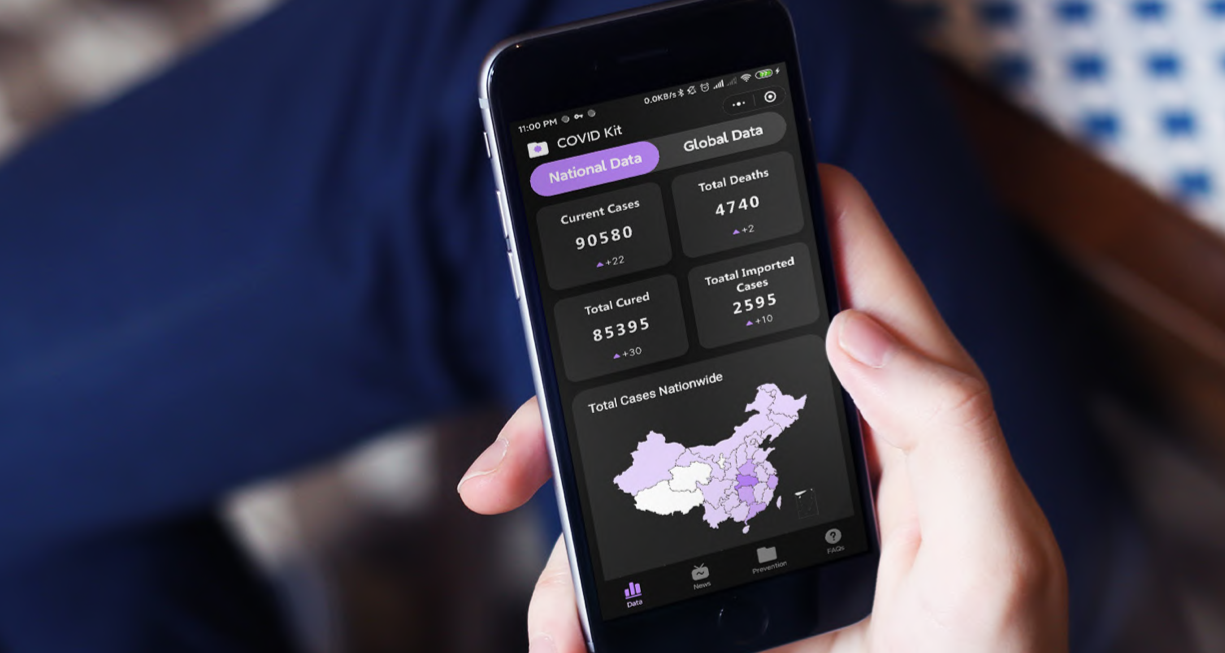
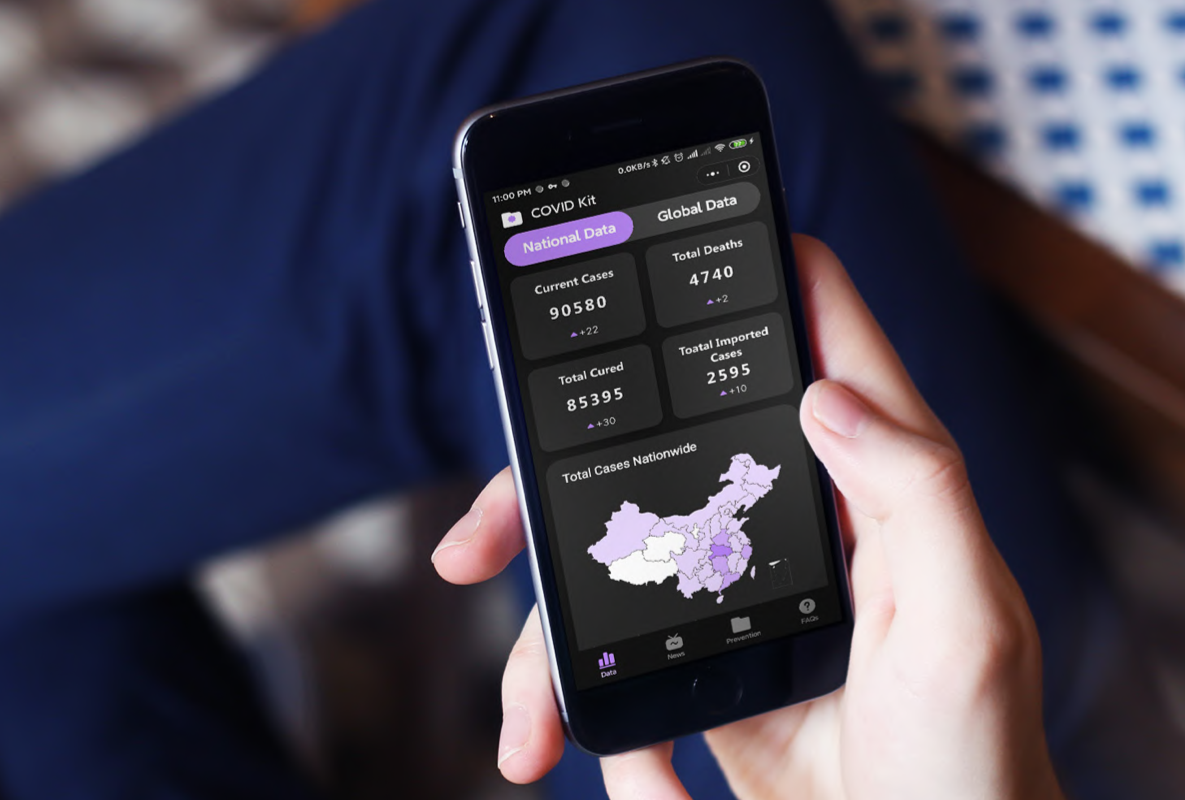
changed covid-kit image

diff --git a/public/index.html b/public/index.html
@@ -133,10 +133,10 @@
             <a href="/posts/covid-kit/"><img
         class="lazyload"
         src="/svg/loading.min.svg"
-        data-src="/posts/covid-kit/index.png"
-        data-srcset="/posts/covid-kit/index.png, /posts/covid-kit/index.png 1.5x, /posts/covid-kit/index.png 2x"
+        data-src="/posts/covid-kit/index-preview.png"
+        data-srcset="/posts/covid-kit/index-preview.png, /posts/covid-kit/index-preview.png 1.5x, /posts/covid-kit/index-preview.png 2x"
         data-sizes="auto"
-        alt="/posts/covid-kit/index.png"
+        alt="/posts/covid-kit/index-preview.png"
         title="How I built a WeChat Mini Program in 30 days" /></a>
         </div><h1 class="single-title" itemprop="name headline">
         <a href="/posts/covid-kit/">Covid Kit - UI/UX - Full Stack</a>

diff --git a/content/posts/covid-kit/index.md b/content/posts/covid-kit/index.md
@@ -12,7 +12,7 @@ draft: false
 
 images : [/posts/covid-kit/index.png]
 featuredImage: "/posts/covid-kit/index.png"
-featuredImagePreview: "/posts/covid-kit/index.png"
+featuredImagePreview: "/posts/covid-kit/index-preview.png"
 
 lightgallery : true
 ---
